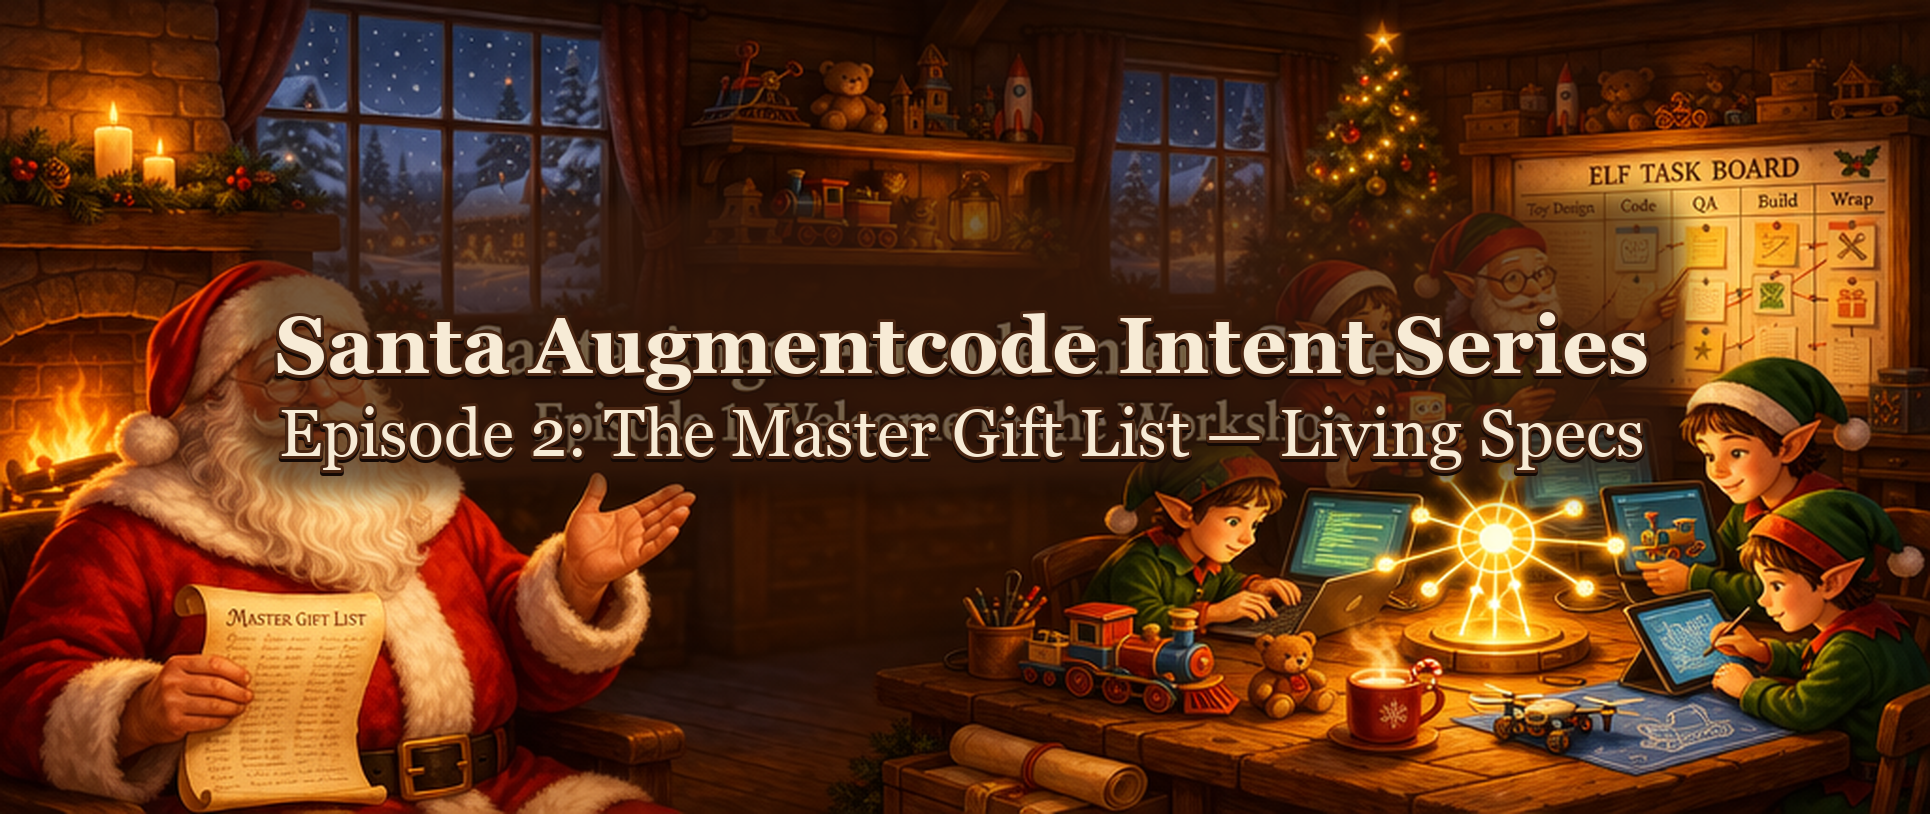
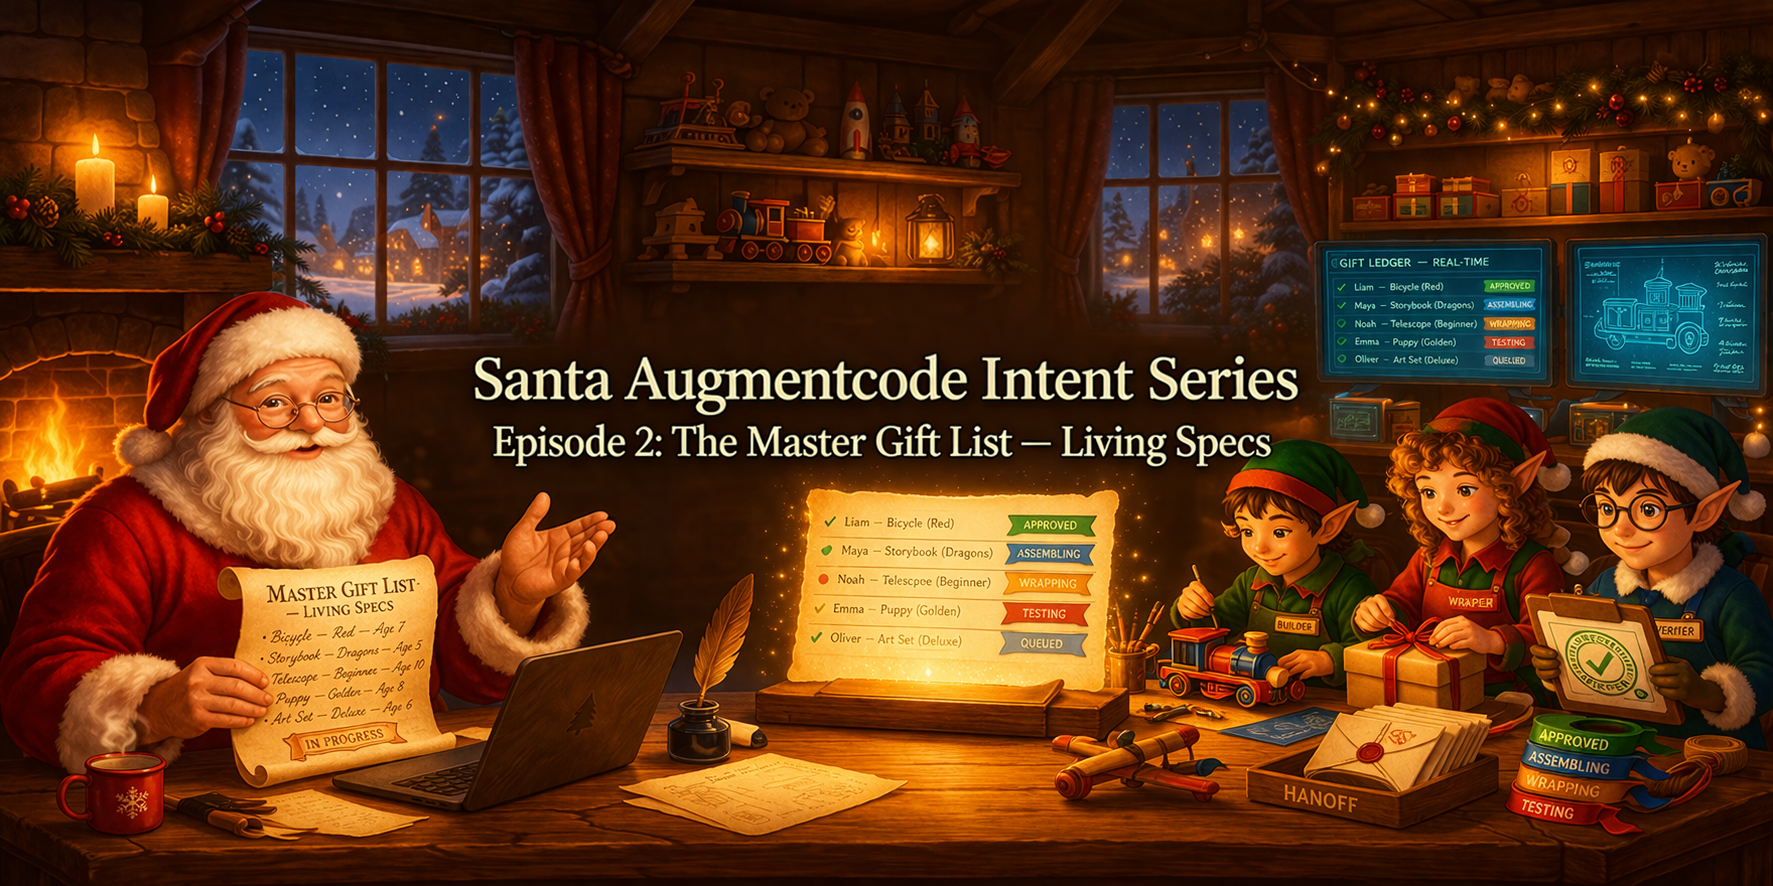
chore(prompt-cli): remove redundant resolution and crop/resize instructi
Agent-Id: agent-28d1ddba-3a25-4451-b7cf-4dbb82e45a81

diff --git a/scripts/prompt-cli.py b/scripts/prompt-cli.py
@@ -487,9 +487,6 @@ Canvas requirements:
 - resolution: {config["image_resolution"]}
 - aspect ratio: {config["image_aspect_ratio"]}
 - landscape banner composition
-- preserve the requested banner aspect ratio exactly; do not fall back to a
-  standard default landscape frame such as 1536x1024 when a wider custom
-  banner canvas is requested
 - about {config["image_whitespace_margin_percent"]}% whitespace around the
   artwork
 - clean readable layout suitable for a DEV.to article header
@@ -497,11 +494,6 @@ Canvas requirements:
 
 Output requirements:
 - export format: {config["image_format"]}
-- final delivered image must be exactly {config["image_resolution"]} pixels
-- if the image tool first renders at a different internal size, crop and resize
-  the final image to exactly {config["image_resolution"]} before returning it
-- keep the composition safe for that final crop/resize so no faces, hats, or
-  centered title text are lost or pushed into the crop zones
 - target file size: under {config["image_max_file_size_kb"]} KB
 - optimized for fast web loading
 - suitable for DEV.to cover image usage
@@ -567,9 +559,6 @@ Avoid:
 Final acceptance check before finishing:
 - verify every main face, head, beard, hair, and hat is fully visible in the
   final {config["image_resolution"]} banner composition
-- verify the delivered file itself is exactly {config["image_resolution"]}
-- if generation snapped to a different working size, crop/resize and re-check
-  the final delivered asset at exactly {config["image_resolution"]}
 - verify there is obvious empty space above the highest head or hat
 - if that check fails, reduce character scale and move the characters lower
 """.strip()
@@ -604,9 +593,6 @@ Canvas requirements:
 - resolution: {config["image_resolution"]}
 - aspect ratio: {config["image_aspect_ratio"]}
 - landscape banner composition
-- preserve the requested banner aspect ratio exactly; do not fall back to a
-  standard default landscape frame such as 1536x1024 when a wider custom
-  banner canvas is requested
 - about {config["image_whitespace_margin_percent"]}% whitespace around the
   artwork
 - clean readable layout suitable for a DEV.to article header or repository
@@ -615,11 +601,6 @@ Canvas requirements:
 
 Output requirements:
 - export format: {config["image_format"]}
-- final delivered image must be exactly {config["image_resolution"]} pixels
-- if the image tool first renders at a different internal size, crop and resize
-  the final image to exactly {config["image_resolution"]} before returning it
-- keep the composition safe for that final crop/resize so no faces, hats, or
-  centered title text are lost or pushed into the crop zones
 - target file size: under {config["image_max_file_size_kb"]} KB
 - optimized for fast web loading
 
@@ -681,9 +662,6 @@ Avoid:
 Final acceptance check before finishing:
 - verify every main face, head, beard, hair, and hat is fully visible in the
   final {config["image_resolution"]} banner composition
-- verify the delivered file itself is exactly {config["image_resolution"]}
-- if generation snapped to a different working size, crop/resize and re-check
-  the final delivered asset at exactly {config["image_resolution"]}
 - verify there is obvious empty space above the highest head or hat
 - verify every title/subtitle letter is fully visible with clear empty space
   below the text block
